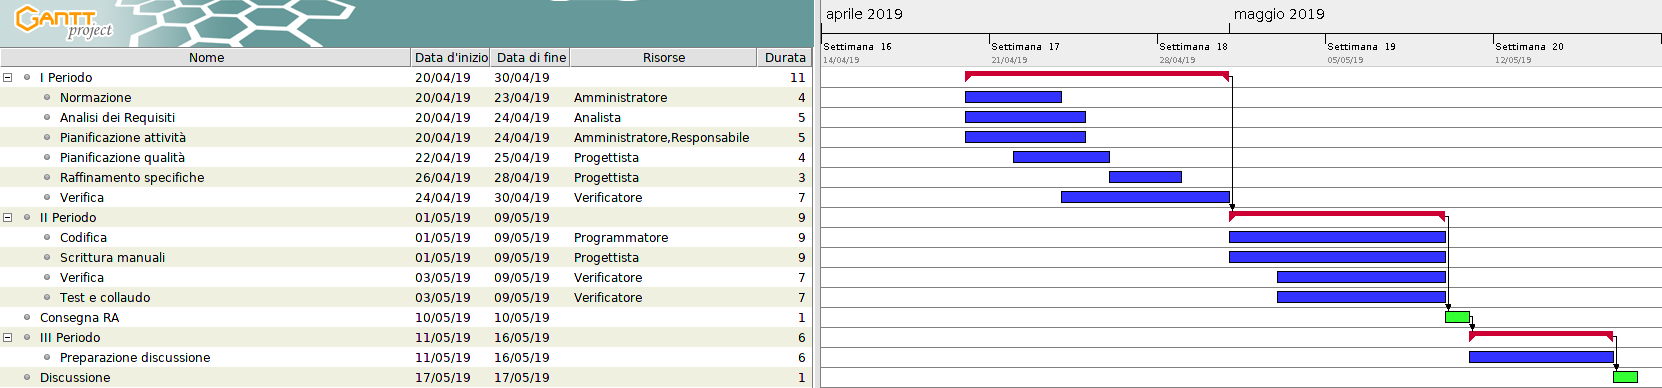
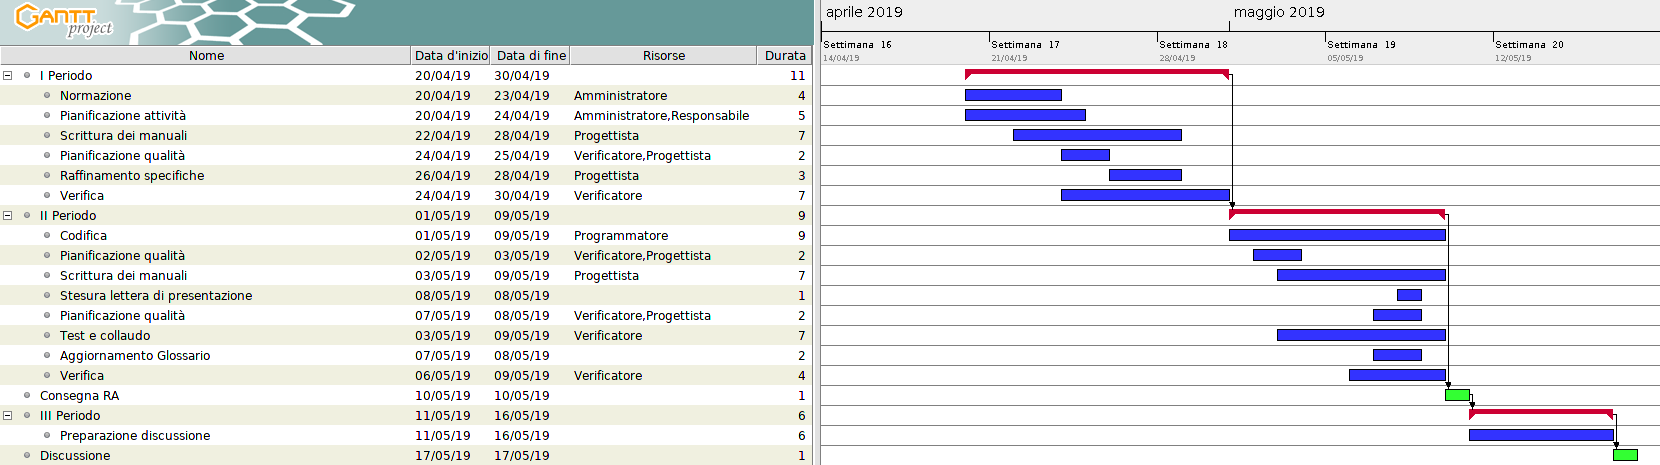
Aggiornata pianificazione

diff --git a/doc/Esterni/Piano di Progetto/sections/pianificazione.tex b/doc/Esterni/Piano di Progetto/sections/pianificazione.tex
@@ -230,21 +230,23 @@
 			\item \textbf{I periodo}: dal 2019-04-20 al 2019-04-30
 			\begin{itemize}
     	        \item \textbf{Normazione}
-    	        \item \textbf{Analisi dei requisiti}
     	        \item \textbf{Pianificazione attività}: aggiornamenti pianificazione.
-    	        \item \textbf{Pianificazione qualità}
+                \item \textbf{Scrittura dei manuali}: completamento manuali.
+    	        \item \textbf{Pianificazione qualità}:  prima rilevazione indici per la verifica.
     	        \item \textbf{Raffinamento specifiche}: completamento delle specifiche.
         	\end{itemize}
 			\item \textbf{II periodo}: dal 2019-05-01 al 2019-05-09
 			\begin{itemize}
     	        \item \textbf{Codifica}: completamento ultima versione.
-    	        \item \textbf{Scrittura manuale}: completamento manuale.
-    	        \item \textbf{Test e collaudo}: esecuzione di test di qualifica e ultimi miglioramenti del prodotto per
+                \item \textbf{Pianificazione qualità}:  seconda rilevazione indici per la verifica.
+    	        \item \textbf{Scrittura dei manuali}: completamento manuali.
+                \item \textbf{Pianificazione qualità}:  terza rilevazione indici per la verifica.
+    	        \item \textbf{Test e collaudo}: esecuzione di test di collaudo e ultimi miglioramenti del prodotto per
     	        garantire che questo soddisfi tutti i vincoli qualitativi.
 			\end{itemize}
 			\item \textbf{III periodo}: dal 2019-05-11 al 2019-05-16
 			\begin{itemize}
-				\item \textbf{Preparazione discussione}
+				\item \textbf{Preparazione discussione}: realizzazione della presentazione, studio personale e preparazione demo per il collaudo.
 			\end{itemize}
 		\end{itemize}
 
